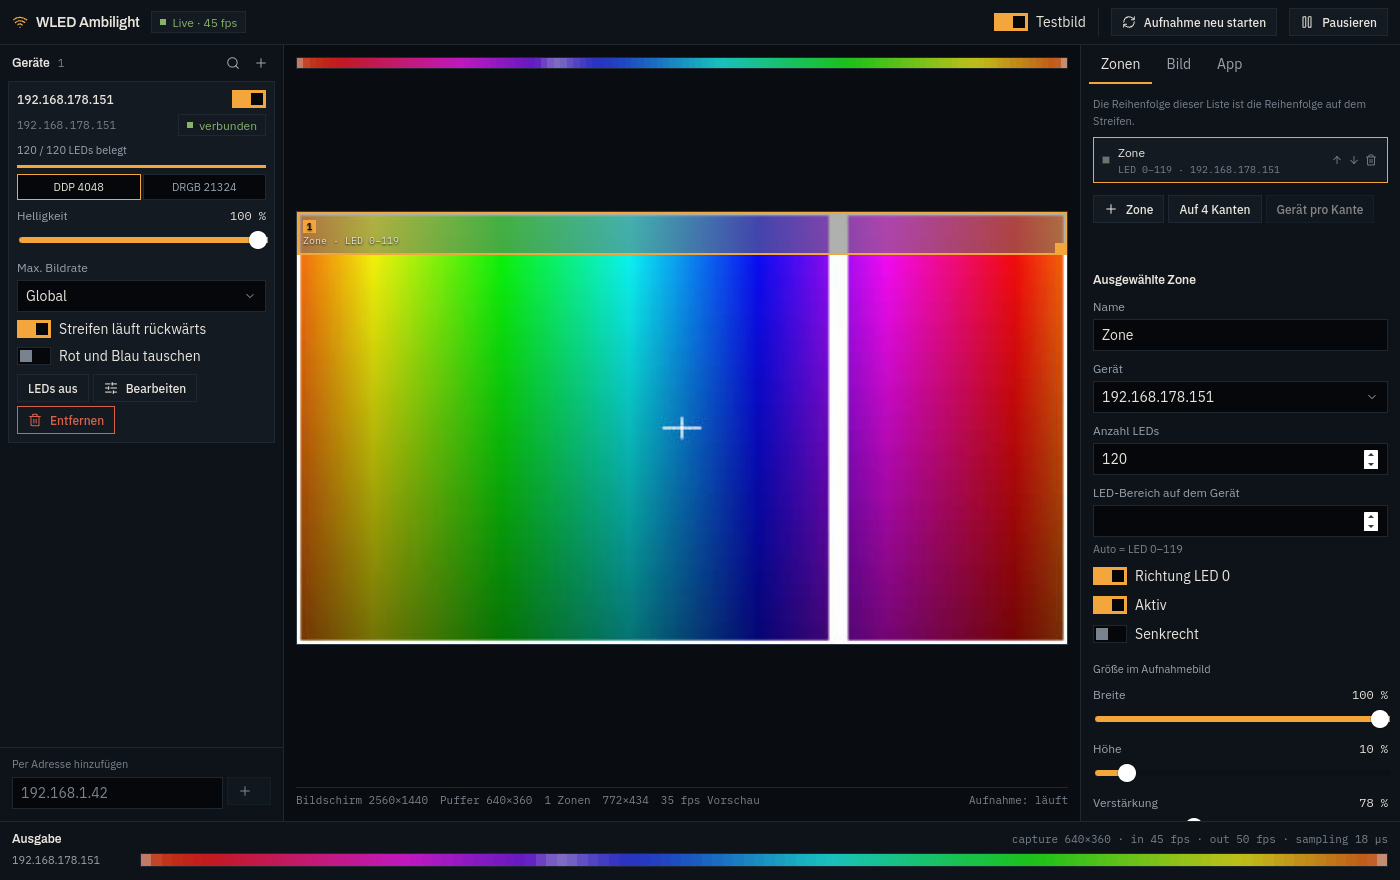
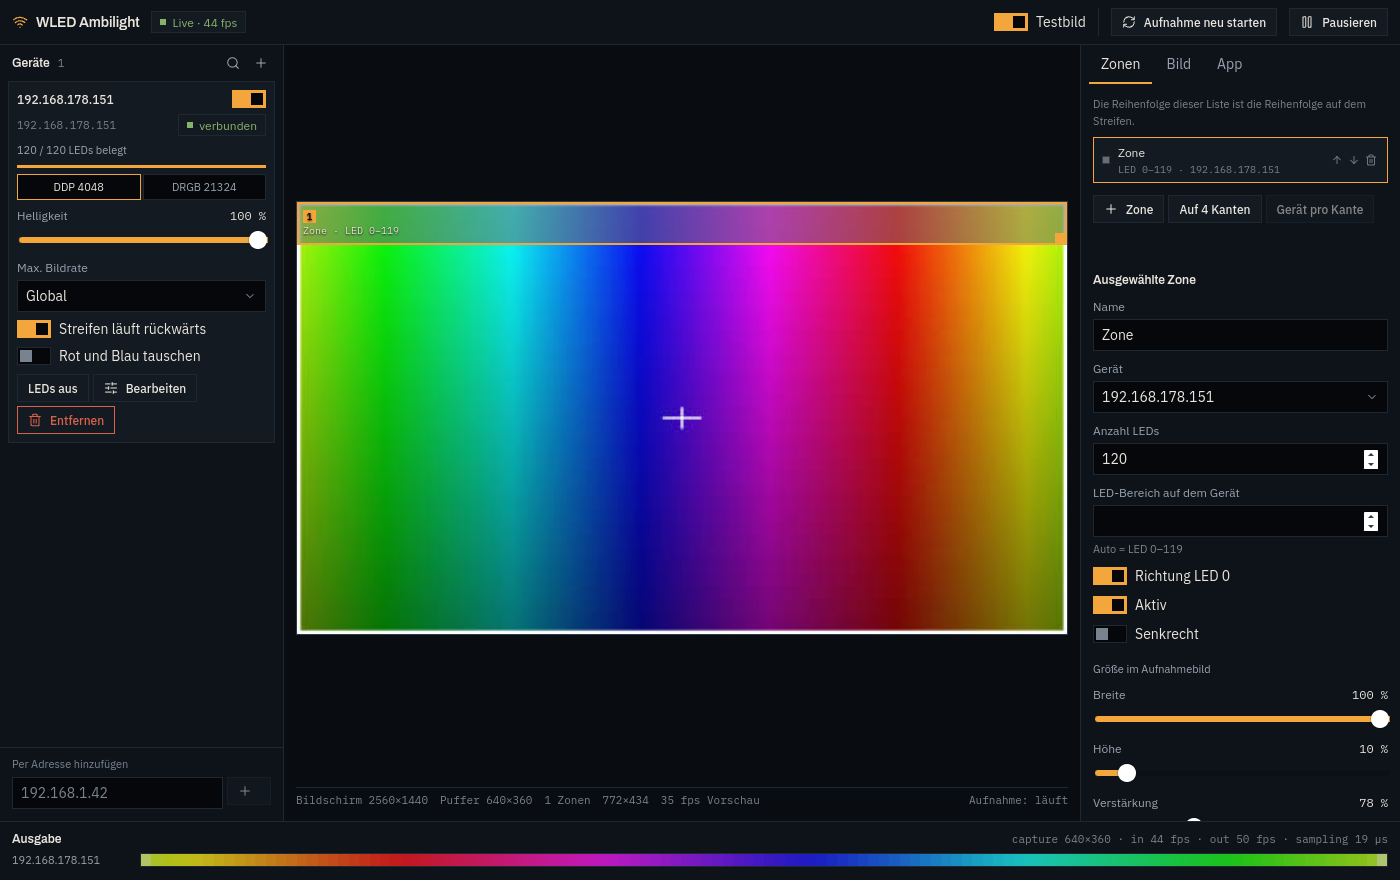
LED-Lineal ueber der Vorschau entfernt
Der Streifen in der Ausgabeleiste zeigt dieselben Farben, nur vollstaendig und
je Geraet - der Streifen ueber der Vorschau war doppelt und zeigt nur die
gewaehlte Zone.

Changed region(s): [[0.215, 0.2148, 0.7679, 0.7364], [0.0921, 0.9511, 1.0, 1.0], [0.215, 0.0614, 0.7679, 0.092]]

diff --git a/ui/src/components/PreviewPanel.vue b/ui/src/components/PreviewPanel.vue
@@ -7,7 +7,7 @@
 // mittig gesetzt. Damit quetscht sich weder Testbild noch Stream, und die Zonen
 // liegen immer genau auf dem Bild.
 import { computed, onBeforeUnmount, onMounted, reactive, ref, watch } from "vue";
-import { commit, preview, previewFps, state, t, zoneLeds, zoneRanges } from "../store";
+import { commit, preview, previewFps, state, t, zoneRanges } from "../store";
 import ZoneEditor from "./ZoneEditor.vue";
 
 const props = defineProps<{ active: number }>();
@@ -50,19 +50,10 @@ onBeforeUnmount(() => observer?.disconnect());
 // Andere Aufnahmebreite → anderes Seitenverhältnis → neu einpassen.
 watch(aspect, fit);
 
-// Lineal: die LEDs der gewählten Zone in ihrer Reihenfolge auf dem Streifen.
-const ruler = computed(() => zoneLeds(props.active));
-const activeZone = computed(() => zones.value[props.active]);
 </script>
 
 <template>
   <section class="preview">
-    <div class="preview__ruler" :class="{ 'is-empty': ruler.length === 0 }" :aria-label="t('ledRuler')">
-      <span v-for="(c, i) in ruler" :key="i" class="preview__tick"
-            :style="{ background: `rgb(${c[0]} ${c[1]} ${c[2]})` }" />
-      <span v-if="ruler.length === 0" class="preview__rulertext">{{ activeZone?.name ?? "—" }}: {{ t("noData") }}</span>
-    </div>
-
     <div ref="stage" class="preview__stage">
       <ZoneEditor :zones="zones" :active="props.active" :snap="state.config?.settings.snap ?? true"
                   :colors="colors" :ranges="ranges" :image="preview"
@@ -84,10 +75,6 @@ const activeZone = computed(() => zones.value[props.active]);
 
 <style scoped>
 .preview { flex: 1; min-width: 0; display: flex; flex-direction: column; padding: var(--wp-space-3); gap: var(--wp-space-2); min-height: 0; }
-.preview__ruler { display: flex; height: 12px; border: var(--wp-size-border) solid var(--wp-color-border-subtle); overflow: hidden; background: var(--wp-color-bg-input); }
-.preview__ruler.is-empty { align-items: center; justify-content: center; }
-.preview__rulertext { font-size: 9px; color: var(--wp-color-text-faint); font-family: var(--wp-font-family-mono); }
-.preview__tick { flex: 1 1 0; min-width: 1px; }
 /* Die Bühne nimmt den freien Platz; der Kasten darin behält sein Seitenverhältnis
    (Größe kommt aus `fit()`) und wird mittig gesetzt. */
 .preview__stage { flex: 1; min-height: 0; min-width: 0; display: flex; align-items: center; justify-content: center; overflow: hidden; }
